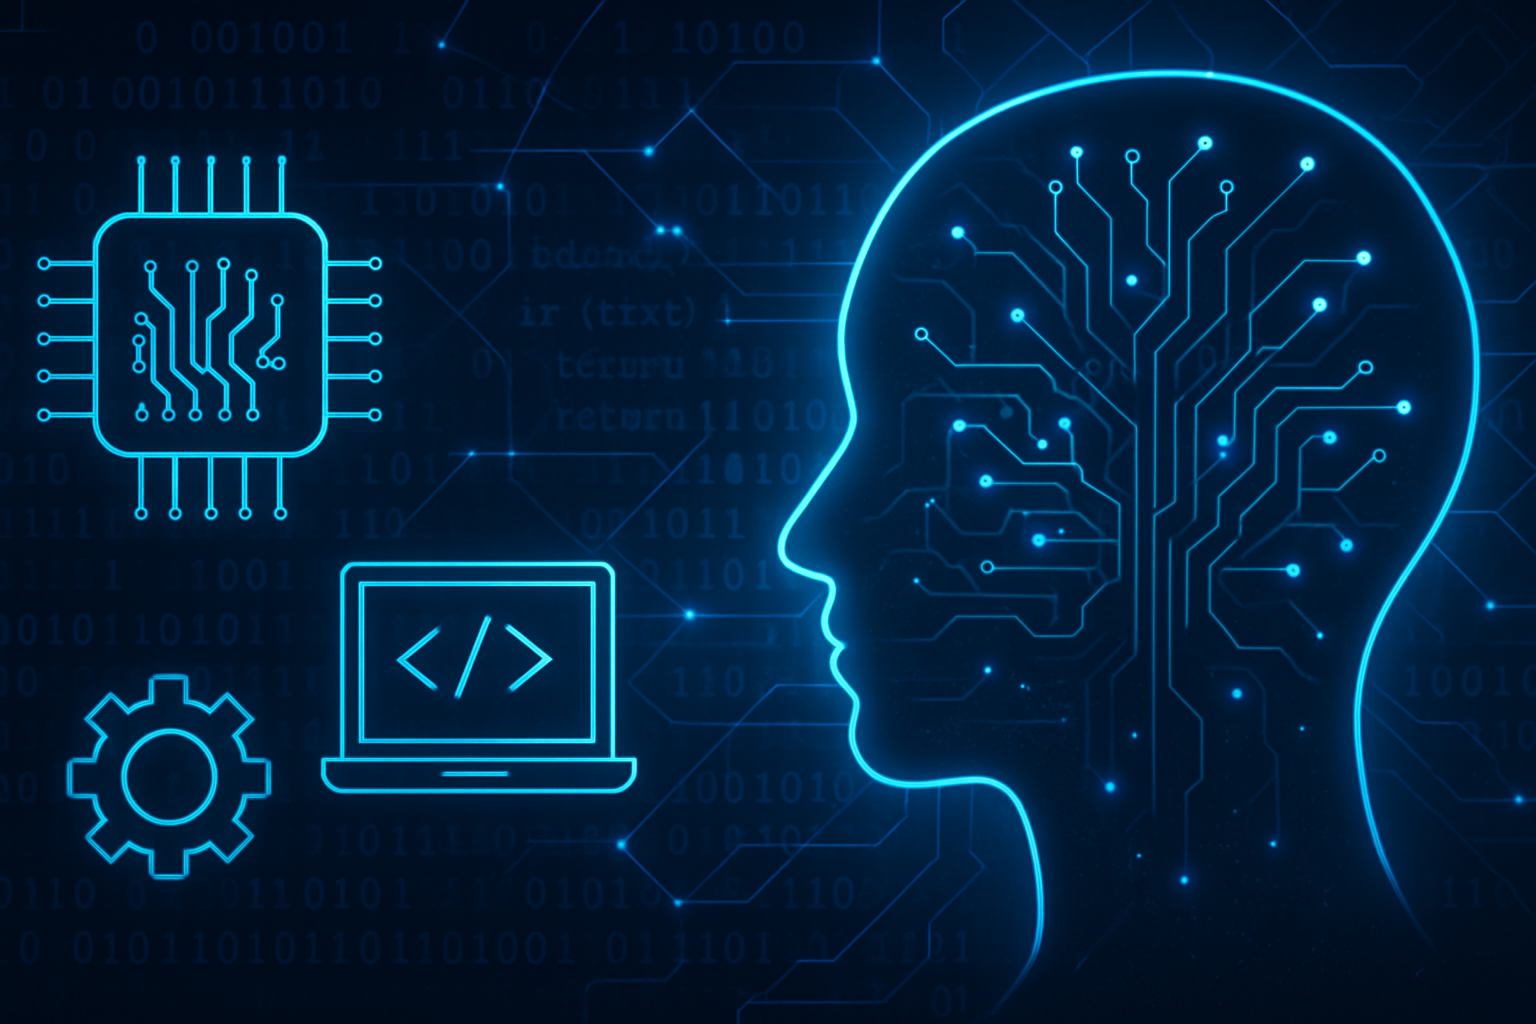
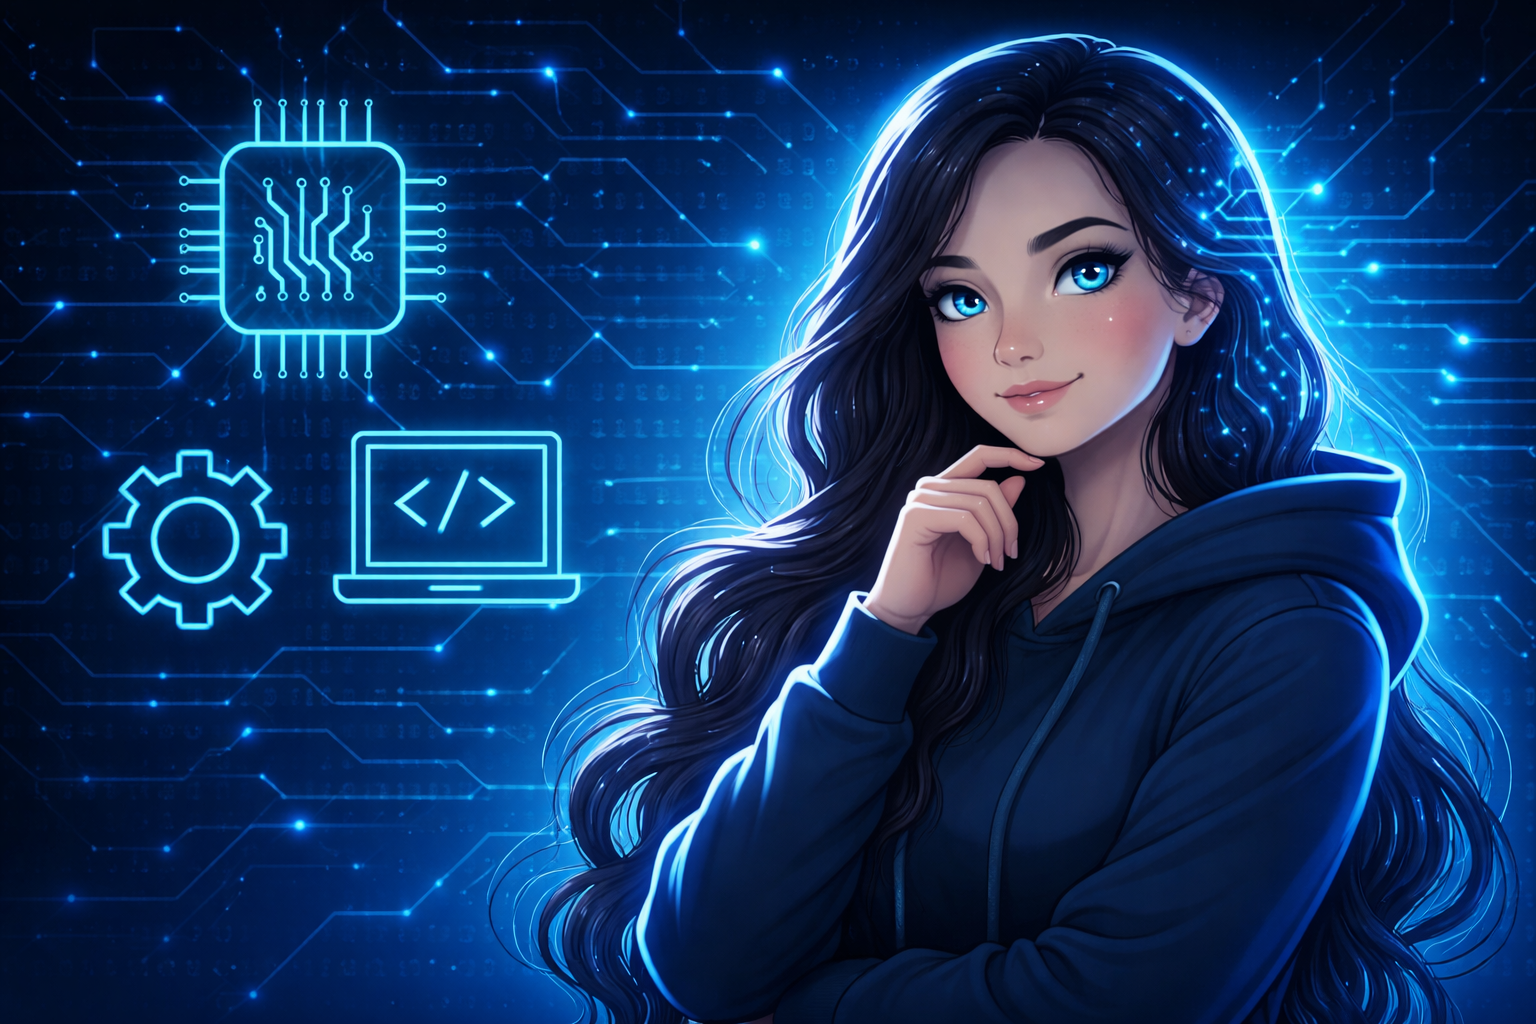
Ajout référent 3

diff --git a/src/app/page.tsx b/src/app/page.tsx
@@ -638,6 +638,21 @@ export default function Home() {
           </a>
         </div>
       </div>
+
+      {/* Référence 3 */}
+      <div className="reference-card">
+        <img src="/images/person3.jpg" alt="Martial Dubois" className="reference-photo" />
+        <h3>Martial Dubois</h3>
+        <p>Responsable de projet Gargantua à CY Cergy Paris Université</p>
+        <div className="reference-buttons">
+          <a href="mailto:martial.dubois@cyu.fr" className="icon-button" target="_blank" rel="noopener noreferrer">
+            <img src="/icons/email.svg" alt="Email" />
+          </a>
+          <a href="https://www.linkedin.com/in/martialdubois/" className="icon-button" target="_blank" rel="noopener noreferrer">
+            <img src="/icons/linkedin.svg" alt="LinkedIn" />
+          </a>
+        </div>
+      </div>
     </div>
   </div>
 </section>
@@ -775,7 +790,7 @@ export default function Home() {
           left: 50%;
           transform: translate(-50%, -50%);
           text-align: center;
-          background-color: rgba(255, 255, 255, 0.4);
+          background-color: rgba(255, 255, 255, 0.7);
           padding: 30px 50px;
           border-radius: 25px;
           box-shadow: 0 0 20px rgba(0,0,0,0.3);
